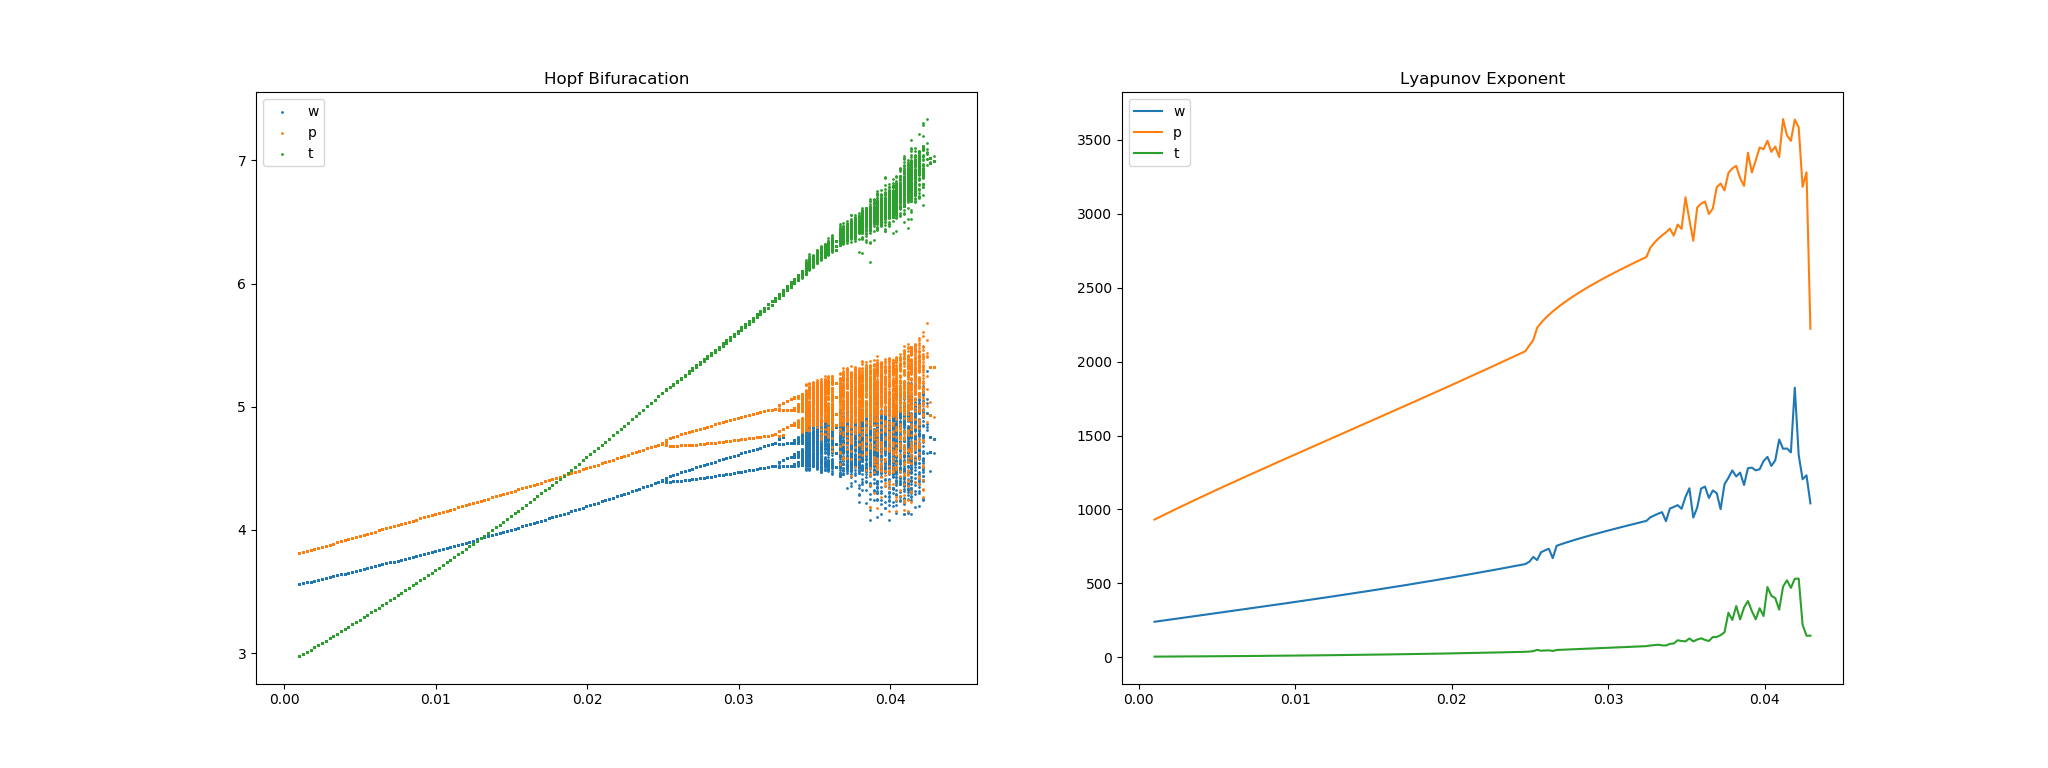
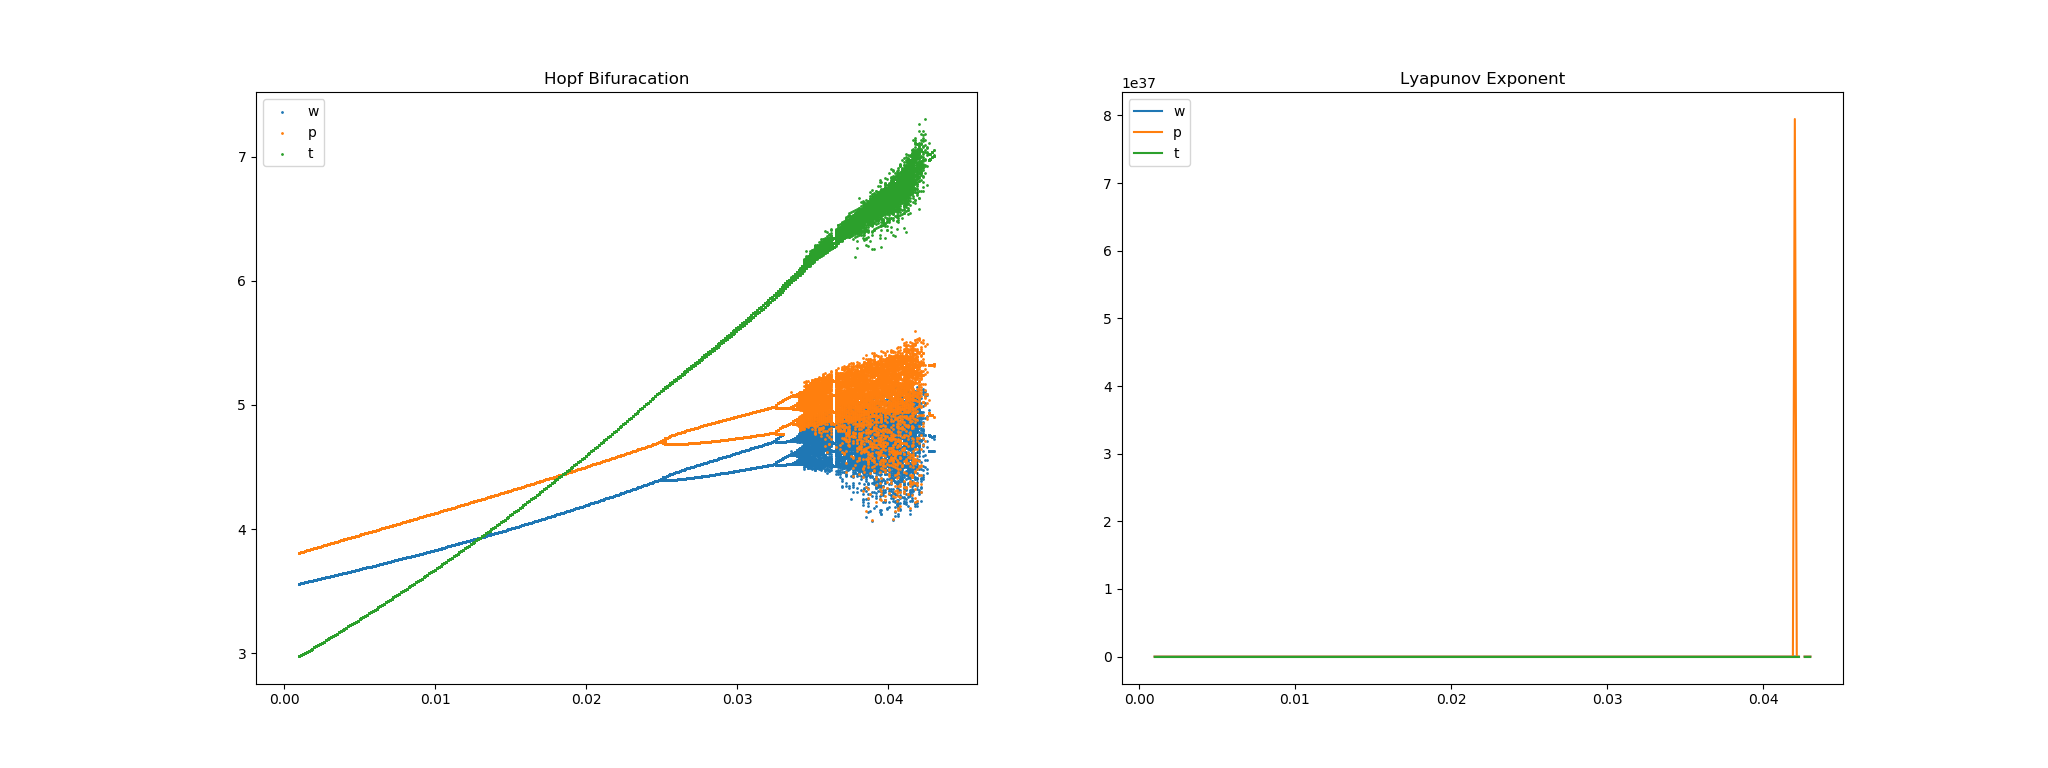
update green supply chains, fix float64

diff --git a/green_dual_channel.py b/green_dual_channel.py
@@ -4,16 +4,16 @@ import numpy as np
 eps = 1e-3
 up_lmt = 0.5
 low_lmt = 0.001
-split_num = 2000
+split_num = 4000
 batch_size = 1000
 es = 20000
 var_name = ['w', 'p', 't']
 test_points = np.array(
     [[
         r * (up_lmt - low_lmt) / split_num + low_lmt, 0.1
-    ] for r in range(split_num)] * batch_size, dtype=np.float32
+    ] for r in range(split_num)] * batch_size, dtype=np.float64
 )
-var = np.array(np.random.rand(batch_size * split_num, 3) * 10, dtype=np.float32)
+var = np.array(np.random.rand(batch_size * split_num, 3) * 10, dtype=np.float64)
 
 a = 3
 b = 1
